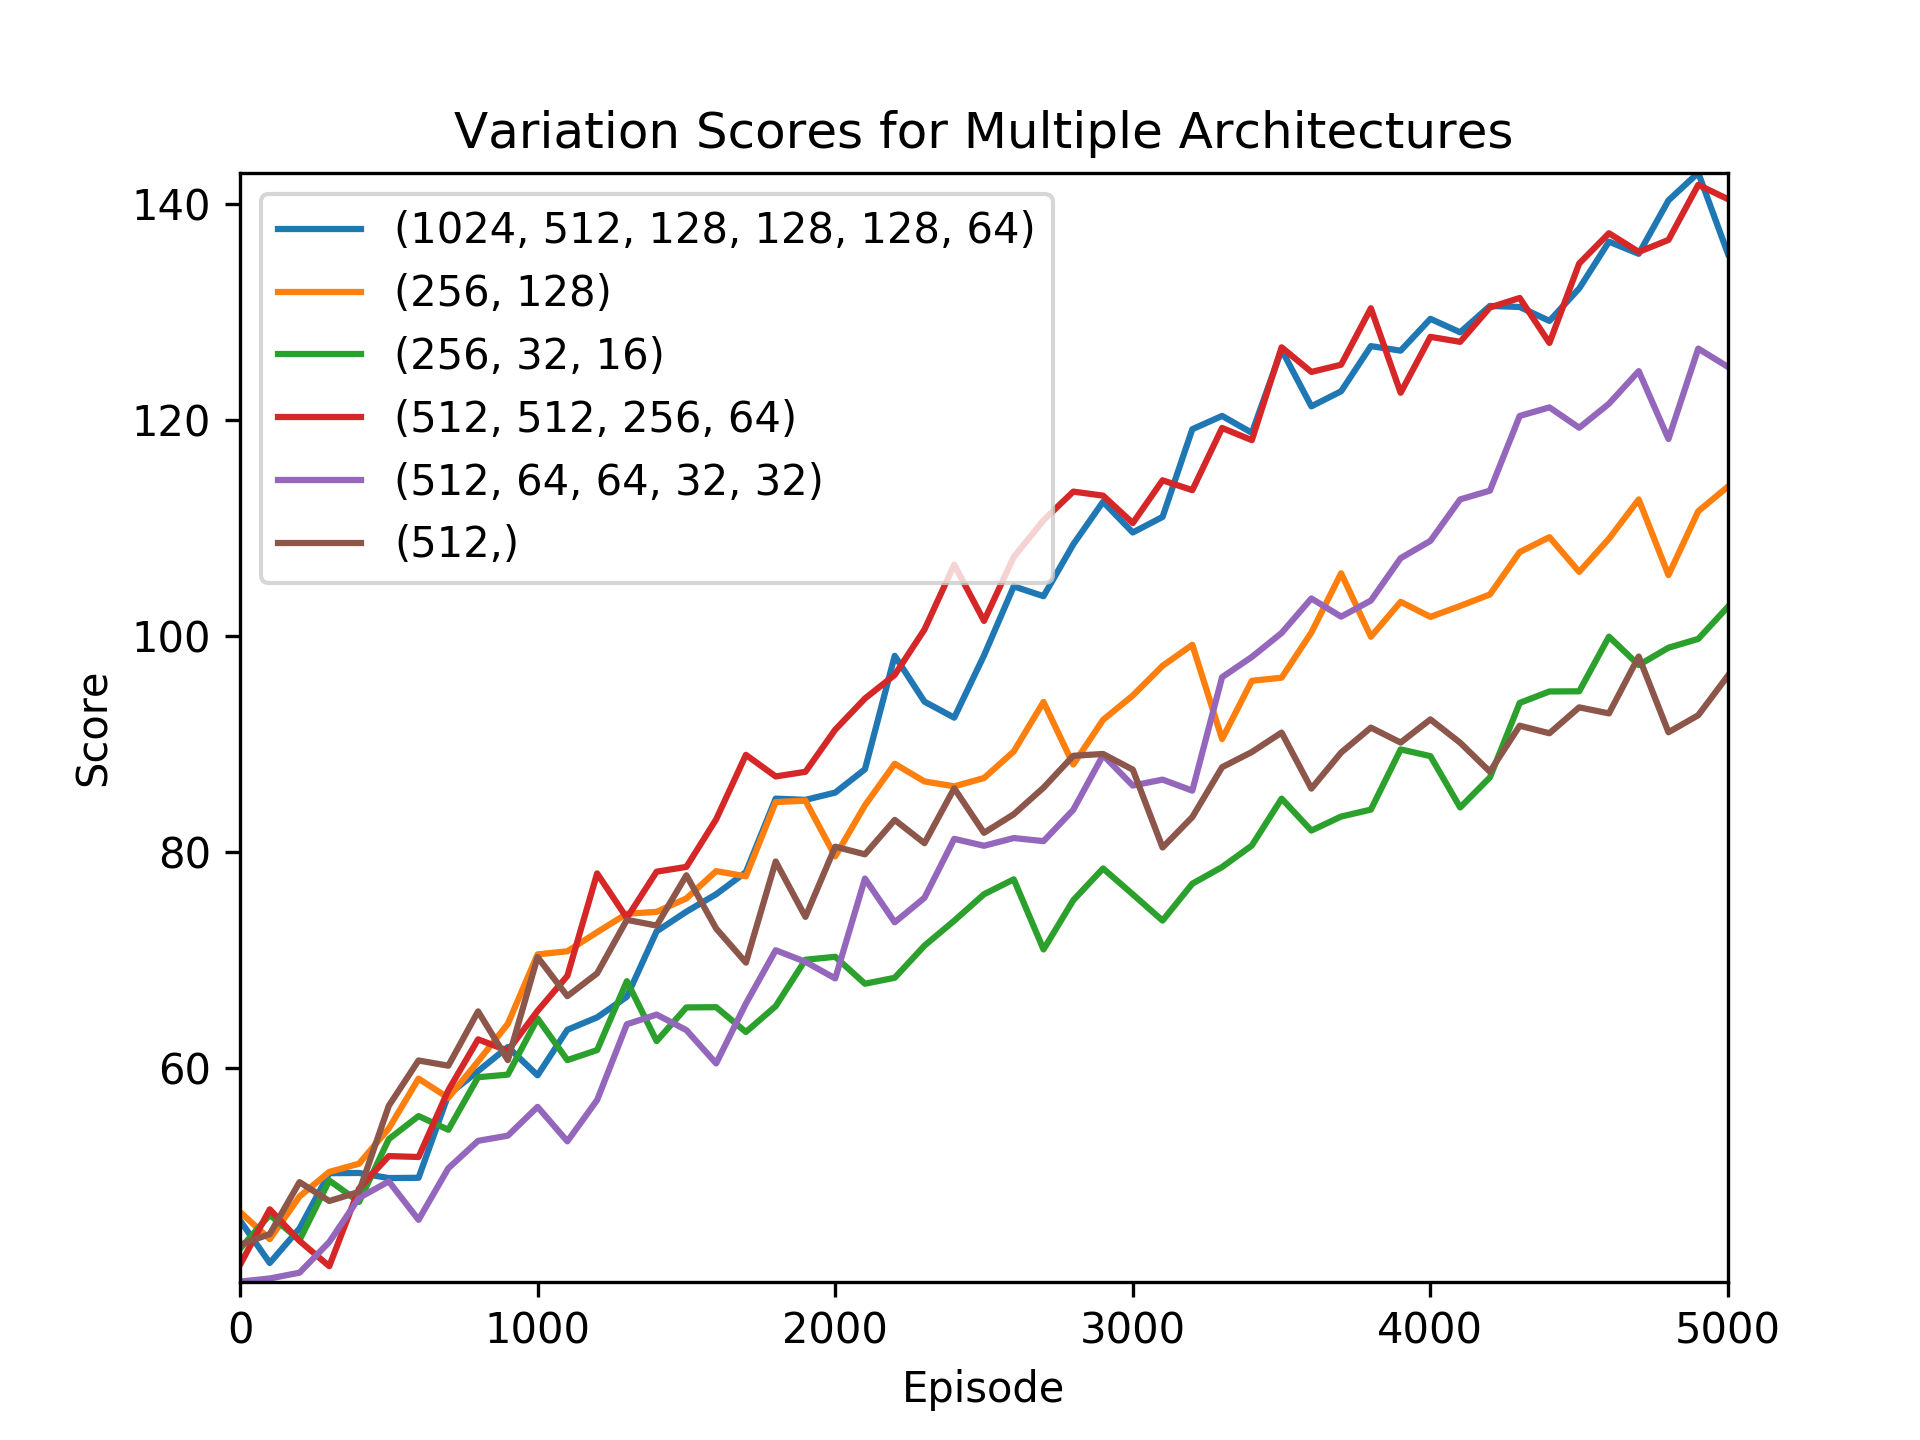
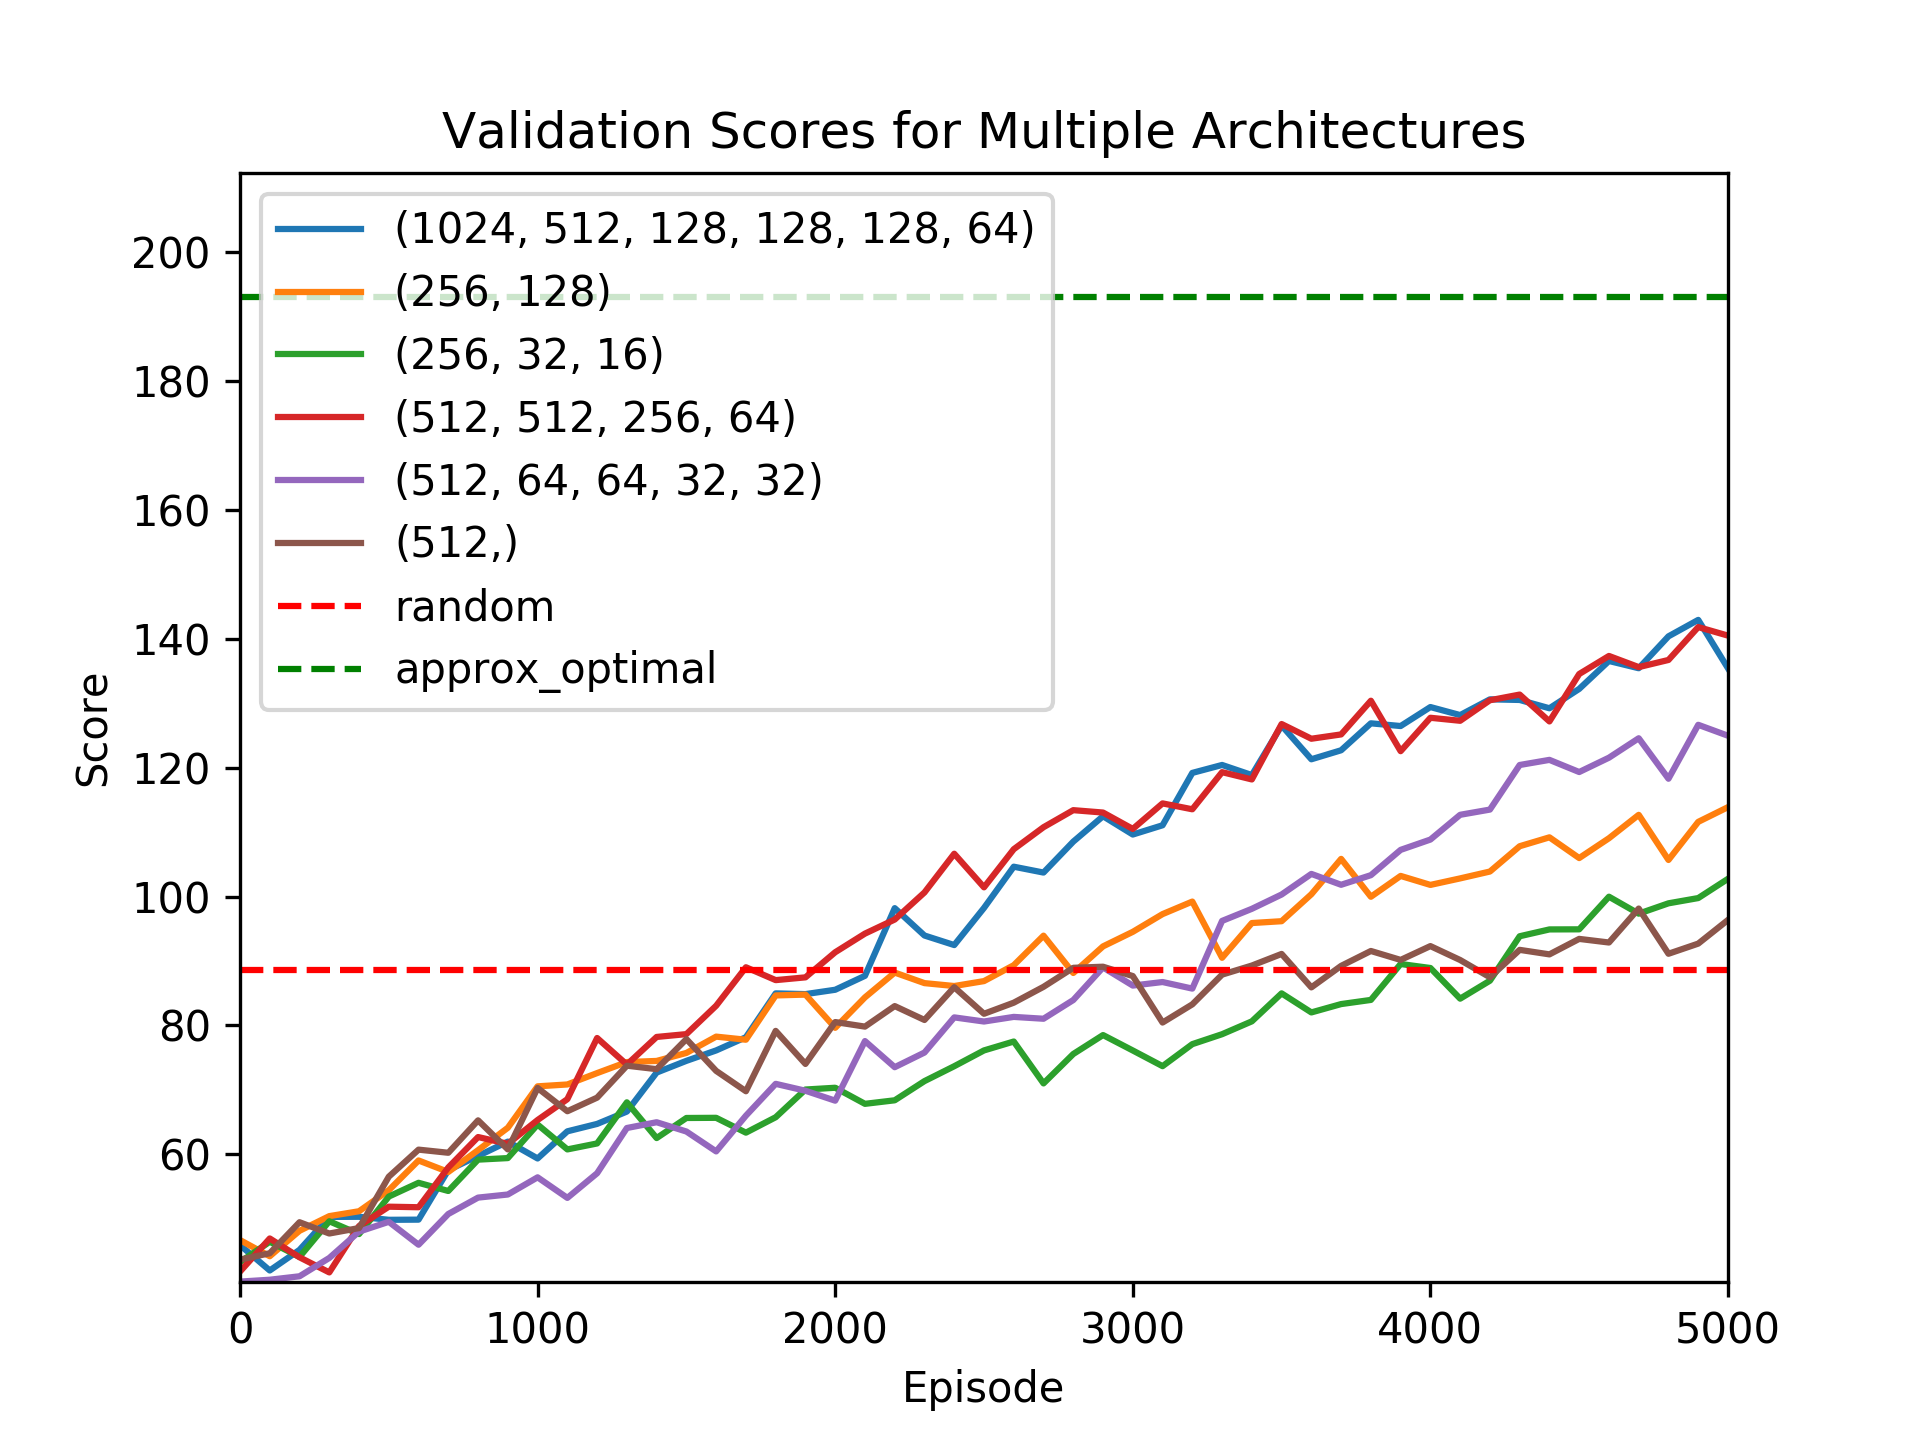
Update plotting

diff --git a/python/plot_results.py b/python/plot_results.py
@@ -1,7 +1,7 @@
 import numpy as np, glob, os
 from matplotlib import pyplot as plt
 
-plot_type = "validation"
+plot_type = "validation_large_sample"
 try:
     os.mkdir("{}/plots".format(plot_type))
 except FileExistsError:
@@ -30,7 +30,7 @@ def plot_save(x, y, title, x_axis='Episode', y_axis='Score',
     plt.axis([x_start, x_end, y_start, y_end])
     plt.savefig(name, dpi=300)
 
-def plot_save_multi(Y, title, x_axis='Episode', y_axis='Score',
+def plot_save_multi(Y, title, random=None, approx_optimal=None, x_axis='Episode', y_axis='Score',
     x_start=None, x_end=None, y_start=None, y_end=None,
     name="test"):
     if ".png" not in name:
@@ -63,6 +63,21 @@ def plot_save_multi(Y, title, x_axis='Episode', y_axis='Score',
             y_start = np.min([y.min(), y_start])
         if y_end_tune:
             y_end = np.max([y.max(), y_end])
+
+    if random != None:
+        y = np.array([random]*x.size)
+        if y_start_tune:
+            y_start = np.min([y.min(), y_start])
+        if y_end_tune:
+            y_end = np.max([y.max(), y_end])
+        plt.plot(x, y, linestyle="--", color="red", label="random")
+    if approx_optimal != None:
+        y = np.array([approx_optimal]*x.size)
+        if y_start_tune:
+            y_start = np.min([y.min(), y_start])
+        if y_end_tune:
+            y_end = np.max([y.max(), y_end]) * 1.1
+        plt.plot(x, y, linestyle="--", color="green", label="approx_optimal")
 
     plt.title(title)
     plt.xlabel(x_axis)
@@ -115,7 +130,13 @@ for architecture in Y:
     Y[architecture]["data"] = Y[architecture]["data"] / Y[architecture]["count"]
     plot_save(Y[architecture]["x"], Y[architecture]["data"], architecture, name="./{}/plots/{}".format(plot_type, architecture))
 
-plot_save_multi(Y, "Variation Scores for Multiple Architectures", name="./{}/plots/multi".format(plot_type))
+with open("{}/random.txt".format(plot_type)) as _file:
+    random = float(_file.read().strip())
+
+with open("{}/approx_optimal.txt".format(plot_type)) as _file:
+    approx_optimal = float(_file.read().strip())
+
+plot_save_multi(Y, "Validation Scores for Multiple Architectures", random, approx_optimal, name="./{}/plots/multi".format(plot_type))
 
 # plot_save(x, y, "Validation Score versus Episodes for Network 1")
 # plot_show(x, y, "Validation Score versus Episodes for Network 1")

diff --git a/python/simulate.py b/python/simulate.py
@@ -5,8 +5,8 @@ from renderer import Renderer
 
 RENDER = False
 TIME_DELAY = 0.03
-MAX_HUMANS = 1
-MAX_ZOMBIES	= 1
+MAX_HUMANS = 3
+MAX_ZOMBIES	= 3
 
 if RENDER:
 	render = Renderer()
@@ -18,8 +18,7 @@ for _ in range(trials):
 		sys.stdout.write("\r{:.2f}% complete".format(_ * 100.0/trials))
 
 	env = Environment(
-		randrange(1, MAX_HUMANS+1),
-		randrange(1, MAX_ZOMBIES+1),
+		MAX_HUMANS, MAX_ZOMBIES,
 		better_rewards=True
 	)
 	while len(env.humans) > 0 and len(env.zombies) > 0:
@@ -32,17 +31,20 @@ for _ in range(trials):
 		# x = env.humans[0].x
 		# y = env.humans[0].y
 
-		points = [(0, 0), (16000, 0), (0, 9000), (16000, 9000), (env.shooter.x, env.shooter.y)]
+		points = [(0, 0), (16000, 0), (0, 9000), (16000, 9000)]
+		# x, y = points[randrange(len(points))]
+
 		min_dist = 16000+9000
 		index = -1
 		for i in range(len(points)):
 			dummy_shooter = env.shooter.copy()
 			dummy_shooter.move(points[i][0], points[i][1])
-			dist = env.humans[0].distance(dummy_shooter)
+			for zombie_i in env.zombies:
+				dist = env.zombies[zombie_i].distance(dummy_shooter)
 
-			if dist < min_dist:
-				min_dist = dist
-				index = i
+				if dist < min_dist:
+					min_dist = dist
+					index = i
 
 		x = points[index][0]
 		y = points[index][1]
